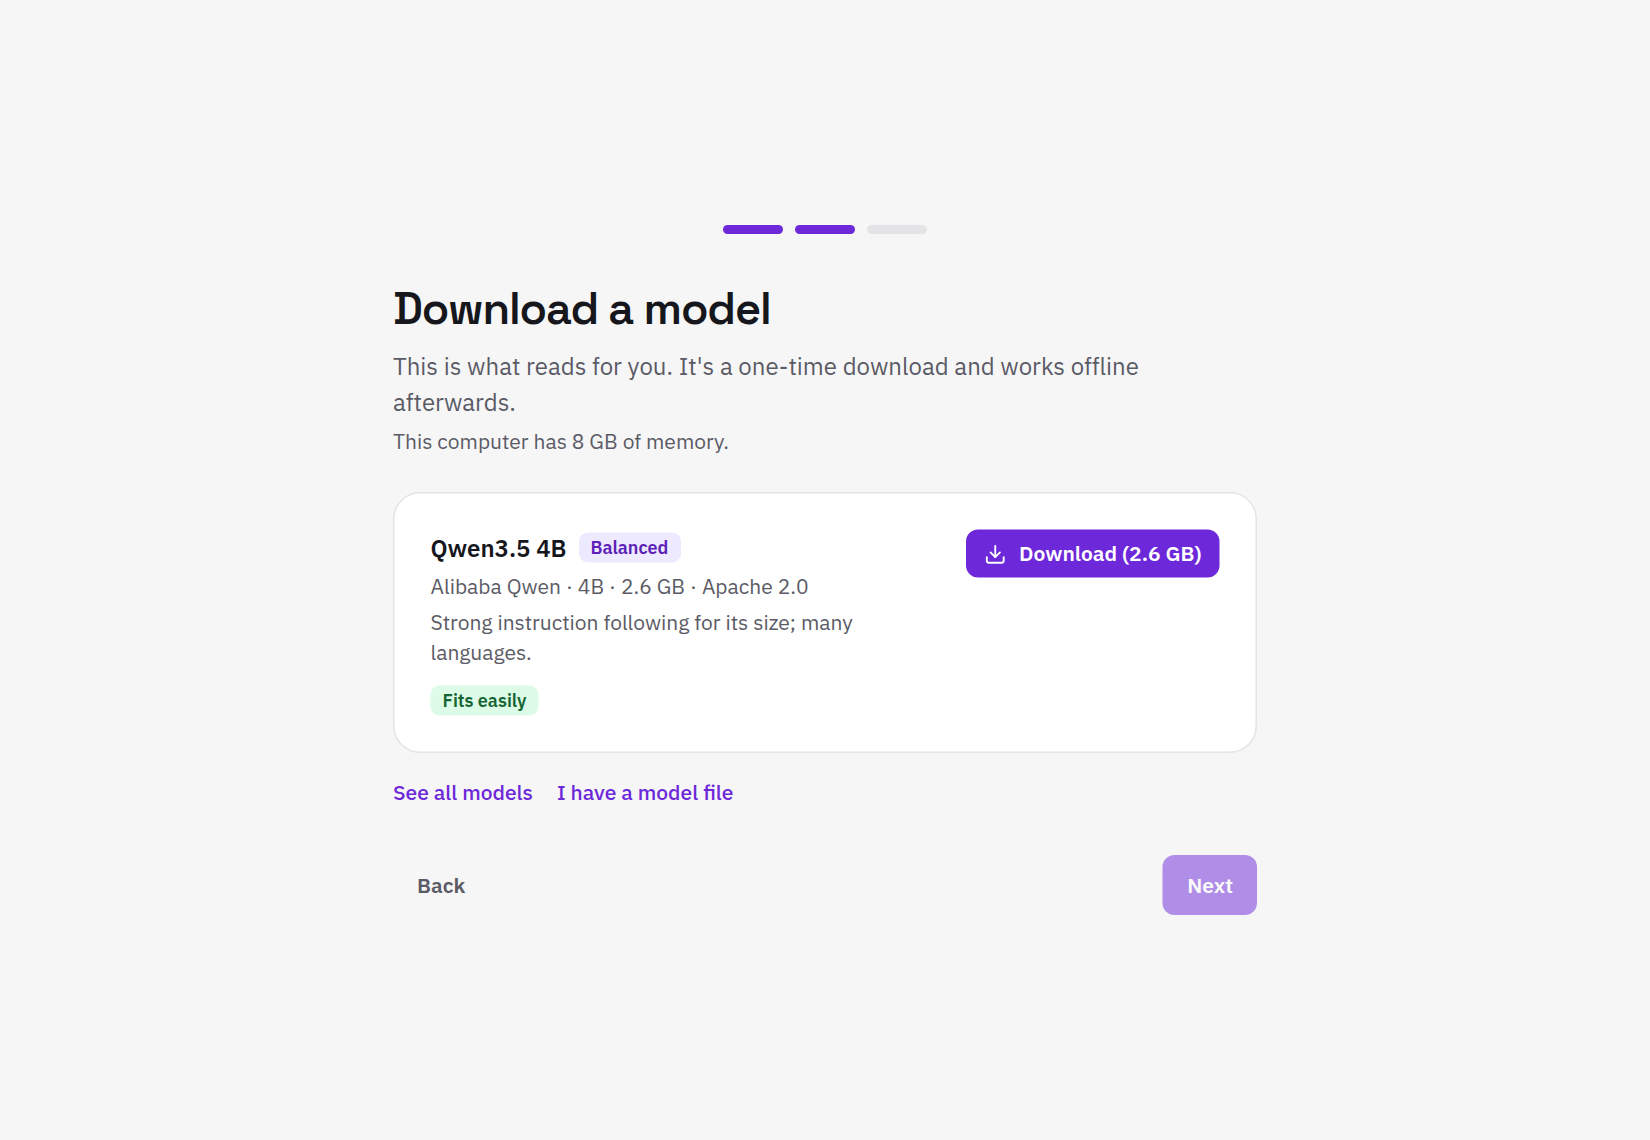
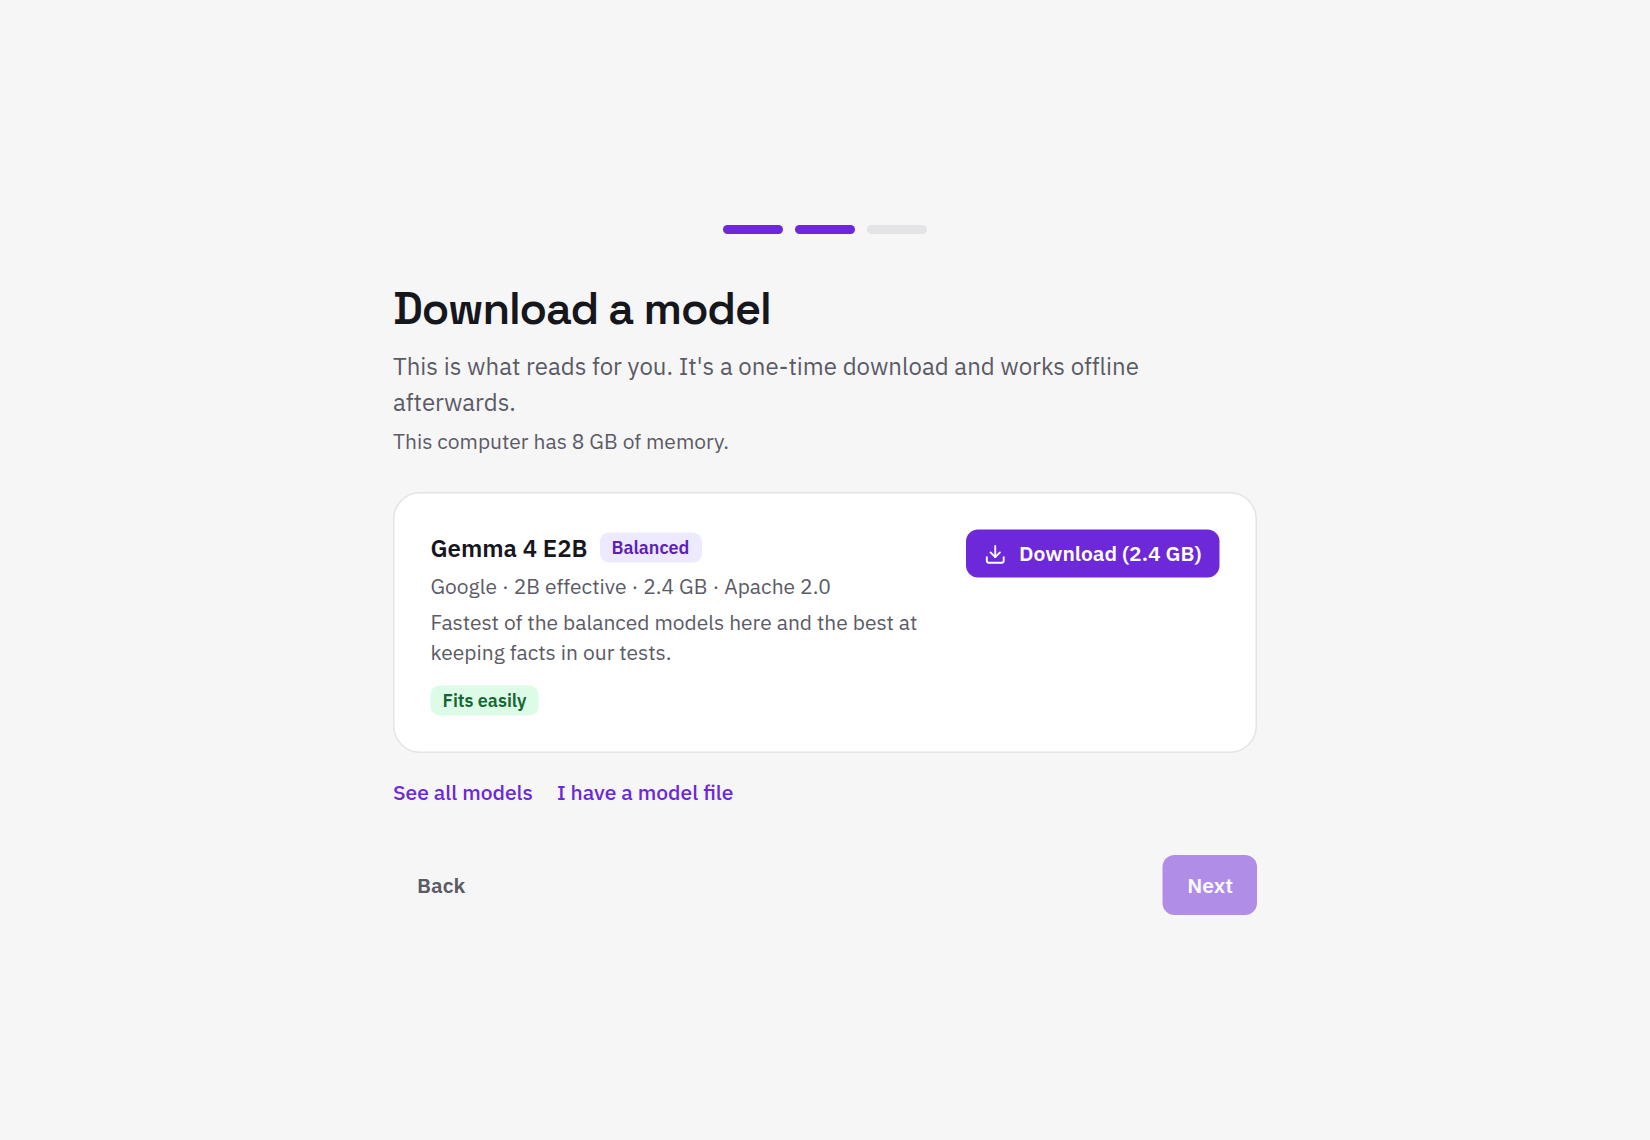
docs: refresh screenshots for Gemma 4 E2B; fix the layout notes

Changed region(s): [[0.2473, 0.4605, 0.5564, 0.5833]]

diff --git a/CLAUDE.md b/CLAUDE.md
@@ -27,8 +27,11 @@ The plan is `docs/IMPLEMENTATION_PLAN.md`; progress and the next step are in
   classification, readability scores, the meaning guard, the language guard (GBNF grammar),
   prompts, the llama-server client and process manager, the dictionary, model catalog and
   downloads, settings. Pure Rust, tested on Linux and Windows.
-- `crates/dictgen`: builds `dictionary.sqlite` from WordNet 3.1 (npm `wordnet-db`).
-- `crates/eval`: the model eval harness (`docs/models.md` has the results).
+- `scripts/build-dictionary.py`: builds `dictionary.sqlite` from WordNet 3.1 (npm
+  `wordnet-db`, irregular forms from `wink-lexicon`); `scripts/fetch-llama.py` fetches the
+  pinned llama.cpp build. Both run in CI; neither output is committed.
+- `crates/eval`: the model evaluation harness (`docs/models.md` has the results; run the
+  "Model evaluation" workflow after changing prompts, guards or llama.cpp).
 - `src-tauri`: the Tauri 2 app. Tray, global hotkey, selection capture (UI Automation, then
   a clipboard-safe Ctrl+C fallback), the popup window that never takes focus, IPC commands.
 - `src/`: React + TypeScript + Tailwind v4 + Radix front end. `popup.html` is the reading
